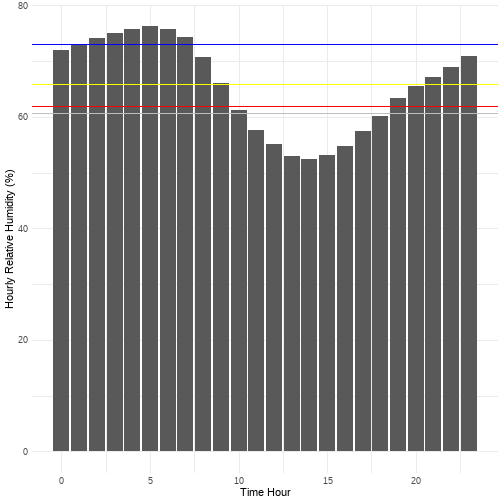
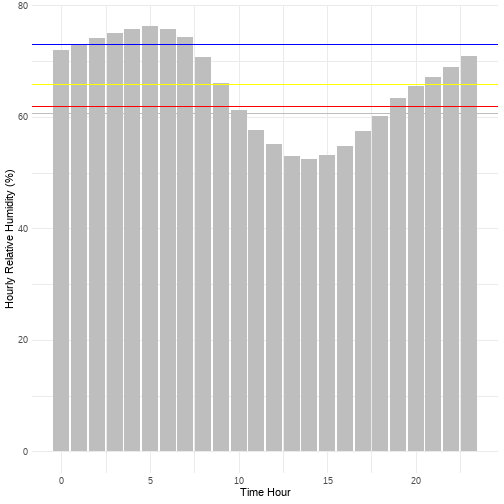
add wordings

diff --git a/season_in_a_day.html b/season_in_a_day.html
@@ -21,18 +21,18 @@
 
 ## CWD Group Presentation
 
-2020-10-30  
-
-
+.pul-left[
 &lt;img src = "vega.png" , width = 20%&gt;  
-Dea Avega Editya
+Dea Avega Editya]
 
-
+.pul-right[
 &lt;img src = "sobyan.jpg" , width = 20%&gt;  
-M. Sobyan Qasim
+M. Sobyan Qasim]
 
+
+
+Melbourne, 2020-10-30  
 ]
-
 ---
 .center[
 ### Research question:
@@ -66,10 +66,11 @@ What makes a season anyway?
 #### Steps Revealed
 
 To find the answer for our research question, we need to compare temperature in a regular day to 4 different typical temperature of each season.  
-It should be also done for humidity!  
+It should be also done for humidity!   
 
-Therefore, we need to:  
---  
+--
+  
+Therefore, we will:
 1. Explore data of temperature &amp; humidity in the dataset
 1. Count average number per hour for these variables
 1. Compare the number to threshold
@@ -104,23 +105,23 @@ There are 7 variables inside.
 
 1. We will find typical temperature for each seasons in Melbourne!  
 
-    * &lt;svg style="height:0.8em;top:.04em;position:relative;fill:red;" viewBox="0 0 512 512"&gt;&lt;path d="M256 160c-52.9 0-96 43.1-96 96s43.1 96 96 96 96-43.1 96-96-43.1-96-96-96zm246.4 80.5l-94.7-47.3 33.5-100.4c4.5-13.6-8.4-26.5-21.9-21.9l-100.4 33.5-47.4-94.8c-6.4-12.8-24.6-12.8-31 0l-47.3 94.7L92.7 70.8c-13.6-4.5-26.5 8.4-21.9 21.9l33.5 100.4-94.7 47.4c-12.8 6.4-12.8 24.6 0 31l94.7 47.3-33.5 100.5c-4.5 13.6 8.4 26.5 21.9 21.9l100.4-33.5 47.3 94.7c6.4 12.8 24.6 12.8 31 0l47.3-94.7 100.4 33.5c13.6 4.5 26.5-8.4 21.9-21.9l-33.5-100.4 94.7-47.3c13-6.5 13-24.7.2-31.1zm-155.9 106c-49.9 49.9-131.1 49.9-181 0-49.9-49.9-49.9-131.1 0-181 49.9-49.9 131.1-49.9 181 0 49.9 49.9 49.9 131.1 0 181z"/&gt;&lt;/svg&gt; **Summer** (December, January, February) = 19.8105125  
+    * &lt;svg style="height:0.8em;top:.04em;position:relative;fill:red;" viewBox="0 0 512 512"&gt;&lt;path d="M256 160c-52.9 0-96 43.1-96 96s43.1 96 96 96 96-43.1 96-96-43.1-96-96-96zm246.4 80.5l-94.7-47.3 33.5-100.4c4.5-13.6-8.4-26.5-21.9-21.9l-100.4 33.5-47.4-94.8c-6.4-12.8-24.6-12.8-31 0l-47.3 94.7L92.7 70.8c-13.6-4.5-26.5 8.4-21.9 21.9l33.5 100.4-94.7 47.4c-12.8 6.4-12.8 24.6 0 31l94.7 47.3-33.5 100.5c-4.5 13.6 8.4 26.5 21.9 21.9l100.4-33.5 47.3 94.7c6.4 12.8 24.6 12.8 31 0l47.3-94.7 100.4 33.5c13.6 4.5 26.5-8.4 21.9-21.9l-33.5-100.4 94.7-47.3c13-6.5 13-24.7.2-31.1zm-155.9 106c-49.9 49.9-131.1 49.9-181 0-49.9-49.9-49.9-131.1 0-181 49.9-49.9 131.1-49.9 181 0 49.9 49.9 49.9 131.1 0 181z"/&gt;&lt;/svg&gt; **Summer** (December, January, February) = 19.81 C 
 
-    * &lt;svg style="height:0.8em;top:.04em;position:relative;fill:blue;" viewBox="0 0 640 512"&gt;&lt;path d="M575.2 325.7c.2-1.9.8-3.7.8-5.6 0-35.3-28.7-64-64-64-12.6 0-24.2 3.8-34.1 10-17.6-38.8-56.5-66-101.9-66-61.8 0-112 50.1-112 112 0 3 .7 5.8.9 8.7-49.6 3.7-88.9 44.7-88.9 95.3 0 53 43 96 96 96h272c53 0 96-43 96-96 0-42.1-27.2-77.4-64.8-90.4zm-430.4-22.6c-43.7-43.7-43.7-114.7 0-158.3 43.7-43.7 114.7-43.7 158.4 0 9.7 9.7 16.9 20.9 22.3 32.7 9.8-3.7 20.1-6 30.7-7.5L386 81.1c4-11.9-7.3-23.1-19.2-19.2L279 91.2 237.5 8.4C232-2.8 216-2.8 210.4 8.4L169 91.2 81.1 61.9C69.3 58 58 69.3 61.9 81.1l29.3 87.8-82.8 41.5c-11.2 5.6-11.2 21.5 0 27.1l82.8 41.4-29.3 87.8c-4 11.9 7.3 23.1 19.2 19.2l76.1-25.3c6.1-12.4 14-23.7 23.6-33.5-13.1-5.4-25.4-13.4-36-24zm-4.8-79.2c0 40.8 29.3 74.8 67.9 82.3 8-4.7 16.3-8.8 25.2-11.7 5.4-44.3 31-82.5 67.4-105C287.3 160.4 258 140 224 140c-46.3 0-84 37.6-84 83.9z"/&gt;&lt;/svg&gt; **Autumn** (March, April, May) =  15.6929064  
+    * &lt;svg style="height:0.8em;top:.04em;position:relative;fill:blue;" viewBox="0 0 640 512"&gt;&lt;path d="M575.2 325.7c.2-1.9.8-3.7.8-5.6 0-35.3-28.7-64-64-64-12.6 0-24.2 3.8-34.1 10-17.6-38.8-56.5-66-101.9-66-61.8 0-112 50.1-112 112 0 3 .7 5.8.9 8.7-49.6 3.7-88.9 44.7-88.9 95.3 0 53 43 96 96 96h272c53 0 96-43 96-96 0-42.1-27.2-77.4-64.8-90.4zm-430.4-22.6c-43.7-43.7-43.7-114.7 0-158.3 43.7-43.7 114.7-43.7 158.4 0 9.7 9.7 16.9 20.9 22.3 32.7 9.8-3.7 20.1-6 30.7-7.5L386 81.1c4-11.9-7.3-23.1-19.2-19.2L279 91.2 237.5 8.4C232-2.8 216-2.8 210.4 8.4L169 91.2 81.1 61.9C69.3 58 58 69.3 61.9 81.1l29.3 87.8-82.8 41.5c-11.2 5.6-11.2 21.5 0 27.1l82.8 41.4-29.3 87.8c-4 11.9 7.3 23.1 19.2 19.2l76.1-25.3c6.1-12.4 14-23.7 23.6-33.5-13.1-5.4-25.4-13.4-36-24zm-4.8-79.2c0 40.8 29.3 74.8 67.9 82.3 8-4.7 16.3-8.8 25.2-11.7 5.4-44.3 31-82.5 67.4-105C287.3 160.4 258 140 224 140c-46.3 0-84 37.6-84 83.9z"/&gt;&lt;/svg&gt; **Autumn** (March, April, May) =  15.69 C 
 
-    * &lt;svg style="height:0.8em;top:.04em;position:relative;fill:blue;" viewBox="0 0 448 512"&gt;&lt;path d="M440.3 345.2l-33.8-19.5 26-7c8.2-2.2 13.1-10.7 10.9-18.9l-4-14.9c-2.2-8.2-10.7-13.1-18.9-10.9l-70.8 19-63.9-37 63.8-36.9 70.8 19c8.2 2.2 16.7-2.7 18.9-10.9l4-14.9c2.2-8.2-2.7-16.7-10.9-18.9l-26-7 33.8-19.5c7.4-4.3 9.9-13.7 5.7-21.1L430.4 119c-4.3-7.4-13.7-9.9-21.1-5.7l-33.8 19.5 7-26c2.2-8.2-2.7-16.7-10.9-18.9l-14.9-4c-8.2-2.2-16.7 2.7-18.9 10.9l-19 70.8-62.8 36.2v-77.5l53.7-53.7c6.2-6.2 6.2-16.4 0-22.6l-11.3-11.3c-6.2-6.2-16.4-6.2-22.6 0L256 56.4V16c0-8.8-7.2-16-16-16h-32c-8.8 0-16 7.2-16 16v40.4l-19.7-19.7c-6.2-6.2-16.4-6.2-22.6 0L138.3 48c-6.3 6.2-6.3 16.4 0 22.6l53.7 53.7v77.5l-62.8-36.2-19-70.8c-2.2-8.2-10.7-13.1-18.9-10.9l-14.9 4c-8.2 2.2-13.1 10.7-10.9 18.9l7 26-33.8-19.5c-7.4-4.3-16.8-1.7-21.1 5.7L2.1 145.7c-4.3 7.4-1.7 16.8 5.7 21.1l33.8 19.5-26 7c-8.3 2.2-13.2 10.7-11 19l4 14.9c2.2 8.2 10.7 13.1 18.9 10.9l70.8-19 63.8 36.9-63.8 36.9-70.8-19c-8.2-2.2-16.7 2.7-18.9 10.9l-4 14.9c-2.2 8.2 2.7 16.7 10.9 18.9l26 7-33.8 19.6c-7.4 4.3-9.9 13.7-5.7 21.1l15.5 26.8c4.3 7.4 13.7 9.9 21.1 5.7l33.8-19.5-7 26c-2.2 8.2 2.7 16.7 10.9 18.9l14.9 4c8.2 2.2 16.7-2.7 18.9-10.9l19-70.8 62.8-36.2v77.5l-53.7 53.7c-6.3 6.2-6.3 16.4 0 22.6l11.3 11.3c6.2 6.2 16.4 6.2 22.6 0l19.7-19.7V496c0 8.8 7.2 16 16 16h32c8.8 0 16-7.2 16-16v-40.4l19.7 19.7c6.2 6.2 16.4 6.2 22.6 0l11.3-11.3c6.2-6.2 6.2-16.4 0-22.6L256 387.7v-77.5l62.8 36.2 19 70.8c2.2 8.2 10.7 13.1 18.9 10.9l14.9-4c8.2-2.2 13.1-10.7 10.9-18.9l-7-26 33.8 19.5c7.4 4.3 16.8 1.7 21.1-5.7l15.5-26.8c4.3-7.3 1.8-16.8-5.6-21z"/&gt;&lt;/svg&gt; **Winter** (June, July, August) = 10.7217756  
+    * &lt;svg style="height:0.8em;top:.04em;position:relative;fill:blue;" viewBox="0 0 448 512"&gt;&lt;path d="M440.3 345.2l-33.8-19.5 26-7c8.2-2.2 13.1-10.7 10.9-18.9l-4-14.9c-2.2-8.2-10.7-13.1-18.9-10.9l-70.8 19-63.9-37 63.8-36.9 70.8 19c8.2 2.2 16.7-2.7 18.9-10.9l4-14.9c2.2-8.2-2.7-16.7-10.9-18.9l-26-7 33.8-19.5c7.4-4.3 9.9-13.7 5.7-21.1L430.4 119c-4.3-7.4-13.7-9.9-21.1-5.7l-33.8 19.5 7-26c2.2-8.2-2.7-16.7-10.9-18.9l-14.9-4c-8.2-2.2-16.7 2.7-18.9 10.9l-19 70.8-62.8 36.2v-77.5l53.7-53.7c6.2-6.2 6.2-16.4 0-22.6l-11.3-11.3c-6.2-6.2-16.4-6.2-22.6 0L256 56.4V16c0-8.8-7.2-16-16-16h-32c-8.8 0-16 7.2-16 16v40.4l-19.7-19.7c-6.2-6.2-16.4-6.2-22.6 0L138.3 48c-6.3 6.2-6.3 16.4 0 22.6l53.7 53.7v77.5l-62.8-36.2-19-70.8c-2.2-8.2-10.7-13.1-18.9-10.9l-14.9 4c-8.2 2.2-13.1 10.7-10.9 18.9l7 26-33.8-19.5c-7.4-4.3-16.8-1.7-21.1 5.7L2.1 145.7c-4.3 7.4-1.7 16.8 5.7 21.1l33.8 19.5-26 7c-8.3 2.2-13.2 10.7-11 19l4 14.9c2.2 8.2 10.7 13.1 18.9 10.9l70.8-19 63.8 36.9-63.8 36.9-70.8-19c-8.2-2.2-16.7 2.7-18.9 10.9l-4 14.9c-2.2 8.2 2.7 16.7 10.9 18.9l26 7-33.8 19.6c-7.4 4.3-9.9 13.7-5.7 21.1l15.5 26.8c4.3 7.4 13.7 9.9 21.1 5.7l33.8-19.5-7 26c-2.2 8.2 2.7 16.7 10.9 18.9l14.9 4c8.2 2.2 16.7-2.7 18.9-10.9l19-70.8 62.8-36.2v77.5l-53.7 53.7c-6.3 6.2-6.3 16.4 0 22.6l11.3 11.3c6.2 6.2 16.4 6.2 22.6 0l19.7-19.7V496c0 8.8 7.2 16 16 16h32c8.8 0 16-7.2 16-16v-40.4l19.7 19.7c6.2 6.2 16.4 6.2 22.6 0l11.3-11.3c6.2-6.2 6.2-16.4 0-22.6L256 387.7v-77.5l62.8 36.2 19 70.8c2.2 8.2 10.7 13.1 18.9 10.9l14.9-4c8.2-2.2 13.1-10.7 10.9-18.9l-7-26 33.8 19.5c7.4 4.3 16.8 1.7 21.1-5.7l15.5-26.8c4.3-7.3 1.8-16.8-5.6-21z"/&gt;&lt;/svg&gt; **Winter** (June, July, August) = 10.72 C 
    
-    * &lt;svg style="height:0.8em;top:.04em;position:relative;fill:green;" viewBox="0 0 512 512"&gt;&lt;path d="M64 96H0c0 123.7 100.3 224 224 224v144c0 8.8 7.2 16 16 16h32c8.8 0 16-7.2 16-16V320C288 196.3 187.7 96 64 96zm384-64c-84.2 0-157.4 46.5-195.7 115.2 27.7 30.2 48.2 66.9 59 107.6C424 243.1 512 147.9 512 32h-64z"/&gt;&lt;/svg&gt; Spring (September, October, November) =15.3336629
+    * &lt;svg style="height:0.8em;top:.04em;position:relative;fill:green;" viewBox="0 0 512 512"&gt;&lt;path d="M64 96H0c0 123.7 100.3 224 224 224v144c0 8.8 7.2 16 16 16h32c8.8 0 16-7.2 16-16V320C288 196.3 187.7 96 64 96zm384-64c-84.2 0-157.4 46.5-195.7 115.2 27.7 30.2 48.2 66.9 59 107.6C424 243.1 512 147.9 512 32h-64z"/&gt;&lt;/svg&gt; **Spring** (September, October, November) =15.33 C
 
 1. Also typical humidity for each seasons in Melbourne  
 
-    * &lt;svg style="height:0.8em;top:.04em;position:relative;fill:red;" viewBox="0 0 512 512"&gt;&lt;path d="M256 160c-52.9 0-96 43.1-96 96s43.1 96 96 96 96-43.1 96-96-43.1-96-96-96zm246.4 80.5l-94.7-47.3 33.5-100.4c4.5-13.6-8.4-26.5-21.9-21.9l-100.4 33.5-47.4-94.8c-6.4-12.8-24.6-12.8-31 0l-47.3 94.7L92.7 70.8c-13.6-4.5-26.5 8.4-21.9 21.9l33.5 100.4-94.7 47.4c-12.8 6.4-12.8 24.6 0 31l94.7 47.3-33.5 100.5c-4.5 13.6 8.4 26.5 21.9 21.9l100.4-33.5 47.3 94.7c6.4 12.8 24.6 12.8 31 0l47.3-94.7 100.4 33.5c13.6 4.5 26.5-8.4 21.9-21.9l-33.5-100.4 94.7-47.3c13-6.5 13-24.7.2-31.1zm-155.9 106c-49.9 49.9-131.1 49.9-181 0-49.9-49.9-49.9-131.1 0-181 49.9-49.9 131.1-49.9 181 0 49.9 49.9 49.9 131.1 0 181z"/&gt;&lt;/svg&gt; **Summer** (December, January, February) = 61.9892018  
+    * &lt;svg style="height:0.8em;top:.04em;position:relative;fill:red;" viewBox="0 0 512 512"&gt;&lt;path d="M256 160c-52.9 0-96 43.1-96 96s43.1 96 96 96 96-43.1 96-96-43.1-96-96-96zm246.4 80.5l-94.7-47.3 33.5-100.4c4.5-13.6-8.4-26.5-21.9-21.9l-100.4 33.5-47.4-94.8c-6.4-12.8-24.6-12.8-31 0l-47.3 94.7L92.7 70.8c-13.6-4.5-26.5 8.4-21.9 21.9l33.5 100.4-94.7 47.4c-12.8 6.4-12.8 24.6 0 31l94.7 47.3-33.5 100.5c-4.5 13.6 8.4 26.5 21.9 21.9l100.4-33.5 47.3 94.7c6.4 12.8 24.6 12.8 31 0l47.3-94.7 100.4 33.5c13.6 4.5 26.5-8.4 21.9-21.9l-33.5-100.4 94.7-47.3c13-6.5 13-24.7.2-31.1zm-155.9 106c-49.9 49.9-131.1 49.9-181 0-49.9-49.9-49.9-131.1 0-181 49.9-49.9 131.1-49.9 181 0 49.9 49.9 49.9 131.1 0 181z"/&gt;&lt;/svg&gt; **Summer** (December, January, February) = 61.99 %  
 
-    * &lt;svg style="height:0.8em;top:.04em;position:relative;fill:blue;" viewBox="0 0 640 512"&gt;&lt;path d="M575.2 325.7c.2-1.9.8-3.7.8-5.6 0-35.3-28.7-64-64-64-12.6 0-24.2 3.8-34.1 10-17.6-38.8-56.5-66-101.9-66-61.8 0-112 50.1-112 112 0 3 .7 5.8.9 8.7-49.6 3.7-88.9 44.7-88.9 95.3 0 53 43 96 96 96h272c53 0 96-43 96-96 0-42.1-27.2-77.4-64.8-90.4zm-430.4-22.6c-43.7-43.7-43.7-114.7 0-158.3 43.7-43.7 114.7-43.7 158.4 0 9.7 9.7 16.9 20.9 22.3 32.7 9.8-3.7 20.1-6 30.7-7.5L386 81.1c4-11.9-7.3-23.1-19.2-19.2L279 91.2 237.5 8.4C232-2.8 216-2.8 210.4 8.4L169 91.2 81.1 61.9C69.3 58 58 69.3 61.9 81.1l29.3 87.8-82.8 41.5c-11.2 5.6-11.2 21.5 0 27.1l82.8 41.4-29.3 87.8c-4 11.9 7.3 23.1 19.2 19.2l76.1-25.3c6.1-12.4 14-23.7 23.6-33.5-13.1-5.4-25.4-13.4-36-24zm-4.8-79.2c0 40.8 29.3 74.8 67.9 82.3 8-4.7 16.3-8.8 25.2-11.7 5.4-44.3 31-82.5 67.4-105C287.3 160.4 258 140 224 140c-46.3 0-84 37.6-84 83.9z"/&gt;&lt;/svg&gt; **Autumn** (March, April and May) =  65.9085885  
+    * &lt;svg style="height:0.8em;top:.04em;position:relative;fill:blue;" viewBox="0 0 640 512"&gt;&lt;path d="M575.2 325.7c.2-1.9.8-3.7.8-5.6 0-35.3-28.7-64-64-64-12.6 0-24.2 3.8-34.1 10-17.6-38.8-56.5-66-101.9-66-61.8 0-112 50.1-112 112 0 3 .7 5.8.9 8.7-49.6 3.7-88.9 44.7-88.9 95.3 0 53 43 96 96 96h272c53 0 96-43 96-96 0-42.1-27.2-77.4-64.8-90.4zm-430.4-22.6c-43.7-43.7-43.7-114.7 0-158.3 43.7-43.7 114.7-43.7 158.4 0 9.7 9.7 16.9 20.9 22.3 32.7 9.8-3.7 20.1-6 30.7-7.5L386 81.1c4-11.9-7.3-23.1-19.2-19.2L279 91.2 237.5 8.4C232-2.8 216-2.8 210.4 8.4L169 91.2 81.1 61.9C69.3 58 58 69.3 61.9 81.1l29.3 87.8-82.8 41.5c-11.2 5.6-11.2 21.5 0 27.1l82.8 41.4-29.3 87.8c-4 11.9 7.3 23.1 19.2 19.2l76.1-25.3c6.1-12.4 14-23.7 23.6-33.5-13.1-5.4-25.4-13.4-36-24zm-4.8-79.2c0 40.8 29.3 74.8 67.9 82.3 8-4.7 16.3-8.8 25.2-11.7 5.4-44.3 31-82.5 67.4-105C287.3 160.4 258 140 224 140c-46.3 0-84 37.6-84 83.9z"/&gt;&lt;/svg&gt; **Autumn** (March, April and May) = 65.91 % 
    
-    * &lt;svg style="height:0.8em;top:.04em;position:relative;fill:blue;" viewBox="0 0 448 512"&gt;&lt;path d="M440.3 345.2l-33.8-19.5 26-7c8.2-2.2 13.1-10.7 10.9-18.9l-4-14.9c-2.2-8.2-10.7-13.1-18.9-10.9l-70.8 19-63.9-37 63.8-36.9 70.8 19c8.2 2.2 16.7-2.7 18.9-10.9l4-14.9c2.2-8.2-2.7-16.7-10.9-18.9l-26-7 33.8-19.5c7.4-4.3 9.9-13.7 5.7-21.1L430.4 119c-4.3-7.4-13.7-9.9-21.1-5.7l-33.8 19.5 7-26c2.2-8.2-2.7-16.7-10.9-18.9l-14.9-4c-8.2-2.2-16.7 2.7-18.9 10.9l-19 70.8-62.8 36.2v-77.5l53.7-53.7c6.2-6.2 6.2-16.4 0-22.6l-11.3-11.3c-6.2-6.2-16.4-6.2-22.6 0L256 56.4V16c0-8.8-7.2-16-16-16h-32c-8.8 0-16 7.2-16 16v40.4l-19.7-19.7c-6.2-6.2-16.4-6.2-22.6 0L138.3 48c-6.3 6.2-6.3 16.4 0 22.6l53.7 53.7v77.5l-62.8-36.2-19-70.8c-2.2-8.2-10.7-13.1-18.9-10.9l-14.9 4c-8.2 2.2-13.1 10.7-10.9 18.9l7 26-33.8-19.5c-7.4-4.3-16.8-1.7-21.1 5.7L2.1 145.7c-4.3 7.4-1.7 16.8 5.7 21.1l33.8 19.5-26 7c-8.3 2.2-13.2 10.7-11 19l4 14.9c2.2 8.2 10.7 13.1 18.9 10.9l70.8-19 63.8 36.9-63.8 36.9-70.8-19c-8.2-2.2-16.7 2.7-18.9 10.9l-4 14.9c-2.2 8.2 2.7 16.7 10.9 18.9l26 7-33.8 19.6c-7.4 4.3-9.9 13.7-5.7 21.1l15.5 26.8c4.3 7.4 13.7 9.9 21.1 5.7l33.8-19.5-7 26c-2.2 8.2 2.7 16.7 10.9 18.9l14.9 4c8.2 2.2 16.7-2.7 18.9-10.9l19-70.8 62.8-36.2v77.5l-53.7 53.7c-6.3 6.2-6.3 16.4 0 22.6l11.3 11.3c6.2 6.2 16.4 6.2 22.6 0l19.7-19.7V496c0 8.8 7.2 16 16 16h32c8.8 0 16-7.2 16-16v-40.4l19.7 19.7c6.2 6.2 16.4 6.2 22.6 0l11.3-11.3c6.2-6.2 6.2-16.4 0-22.6L256 387.7v-77.5l62.8 36.2 19 70.8c2.2 8.2 10.7 13.1 18.9 10.9l14.9-4c8.2-2.2 13.1-10.7 10.9-18.9l-7-26 33.8 19.5c7.4 4.3 16.8 1.7 21.1-5.7l15.5-26.8c4.3-7.3 1.8-16.8-5.6-21z"/&gt;&lt;/svg&gt; **Winter** (June, July and August) = 73.0085487  
+    * &lt;svg style="height:0.8em;top:.04em;position:relative;fill:blue;" viewBox="0 0 448 512"&gt;&lt;path d="M440.3 345.2l-33.8-19.5 26-7c8.2-2.2 13.1-10.7 10.9-18.9l-4-14.9c-2.2-8.2-10.7-13.1-18.9-10.9l-70.8 19-63.9-37 63.8-36.9 70.8 19c8.2 2.2 16.7-2.7 18.9-10.9l4-14.9c2.2-8.2-2.7-16.7-10.9-18.9l-26-7 33.8-19.5c7.4-4.3 9.9-13.7 5.7-21.1L430.4 119c-4.3-7.4-13.7-9.9-21.1-5.7l-33.8 19.5 7-26c2.2-8.2-2.7-16.7-10.9-18.9l-14.9-4c-8.2-2.2-16.7 2.7-18.9 10.9l-19 70.8-62.8 36.2v-77.5l53.7-53.7c6.2-6.2 6.2-16.4 0-22.6l-11.3-11.3c-6.2-6.2-16.4-6.2-22.6 0L256 56.4V16c0-8.8-7.2-16-16-16h-32c-8.8 0-16 7.2-16 16v40.4l-19.7-19.7c-6.2-6.2-16.4-6.2-22.6 0L138.3 48c-6.3 6.2-6.3 16.4 0 22.6l53.7 53.7v77.5l-62.8-36.2-19-70.8c-2.2-8.2-10.7-13.1-18.9-10.9l-14.9 4c-8.2 2.2-13.1 10.7-10.9 18.9l7 26-33.8-19.5c-7.4-4.3-16.8-1.7-21.1 5.7L2.1 145.7c-4.3 7.4-1.7 16.8 5.7 21.1l33.8 19.5-26 7c-8.3 2.2-13.2 10.7-11 19l4 14.9c2.2 8.2 10.7 13.1 18.9 10.9l70.8-19 63.8 36.9-63.8 36.9-70.8-19c-8.2-2.2-16.7 2.7-18.9 10.9l-4 14.9c-2.2 8.2 2.7 16.7 10.9 18.9l26 7-33.8 19.6c-7.4 4.3-9.9 13.7-5.7 21.1l15.5 26.8c4.3 7.4 13.7 9.9 21.1 5.7l33.8-19.5-7 26c-2.2 8.2 2.7 16.7 10.9 18.9l14.9 4c8.2 2.2 16.7-2.7 18.9-10.9l19-70.8 62.8-36.2v77.5l-53.7 53.7c-6.3 6.2-6.3 16.4 0 22.6l11.3 11.3c6.2 6.2 16.4 6.2 22.6 0l19.7-19.7V496c0 8.8 7.2 16 16 16h32c8.8 0 16-7.2 16-16v-40.4l19.7 19.7c6.2 6.2 16.4 6.2 22.6 0l11.3-11.3c6.2-6.2 6.2-16.4 0-22.6L256 387.7v-77.5l62.8 36.2 19 70.8c2.2 8.2 10.7 13.1 18.9 10.9l14.9-4c8.2-2.2 13.1-10.7 10.9-18.9l-7-26 33.8 19.5c7.4 4.3 16.8 1.7 21.1-5.7l15.5-26.8c4.3-7.3 1.8-16.8-5.6-21z"/&gt;&lt;/svg&gt; **Winter** (June, July and August) = 73.01 %  
    
-    * &lt;svg style="height:0.8em;top:.04em;position:relative;fill:green;" viewBox="0 0 512 512"&gt;&lt;path d="M64 96H0c0 123.7 100.3 224 224 224v144c0 8.8 7.2 16 16 16h32c8.8 0 16-7.2 16-16V320C288 196.3 187.7 96 64 96zm384-64c-84.2 0-157.4 46.5-195.7 115.2 27.7 30.2 48.2 66.9 59 107.6C424 243.1 512 147.9 512 32h-64z"/&gt;&lt;/svg&gt; **Spring** (September, October and November) =60.7050444
+    * &lt;svg style="height:0.8em;top:.04em;position:relative;fill:green;" viewBox="0 0 512 512"&gt;&lt;path d="M64 96H0c0 123.7 100.3 224 224 224v144c0 8.8 7.2 16 16 16h32c8.8 0 16-7.2 16-16V320C288 196.3 187.7 96 64 96zm384-64c-84.2 0-157.4 46.5-195.7 115.2 27.7 30.2 48.2 66.9 59 107.6C424 243.1 512 147.9 512 32h-64z"/&gt;&lt;/svg&gt; **Spring** (September, October and November) =60.71 %
 
 
 ---
@@ -129,11 +130,7 @@ There are 7 variables inside.
 
 #### Is that true that we can feel four seasons in a day in Melbourne?
 
-##### Average Hourly Temperature in Melbourne
-.pull-left[
-![](season_in_a_day_files/figure-html/temp-1.png)&lt;!-- --&gt;
-]
-
+&lt;img src = "hot.png" width = 5%&gt; Average Hourly Temperature in Melbourne
 .pull-left[
 
 ```r
@@ -145,7 +142,9 @@ melb_temp %&gt;% filter(units == "C") %&gt;% group_by(hour) %&gt;% summarise(ave
     geom_hline(yintercept = pull(ave_spring), color = "green") + 
     theme_minimal() + xlab("Time Hour") + ylab("Hourly Average Temperature (C)")
 ```
+]
 
+.pull-left[
 ![](season_in_a_day_files/figure-html/plot-out-1.png)&lt;!-- --&gt;
 ]
 
@@ -154,24 +153,22 @@ melb_temp %&gt;% filter(units == "C") %&gt;% group_by(hour) %&gt;% summarise(ave
 
 #### Is that true that we can feel four seasons in a day in Melbourne?
 
-##### Average Hourly Humidity in Melbourne
+&lt;img src = "drop.png" width = 5%&gt; Average Hourly Humidity in Melbourne
 
 .pull-left[
-![](season_in_a_day_files/figure-html/rain-1.png)&lt;!-- --&gt;
-]
-
-.pull-right[
 
 ```r
 melb_temp %&gt;% filter(type == "TPH.RH-EPA-1h") %&gt;% group_by(hour) %&gt;% 
     summarise(ave_humid = mean(value, na.rm = TRUE)) %&gt;% ggplot(aes(x = hour, 
-    y = ave_humid)) + geom_col() + geom_hline(yintercept = pull(ave_rainautumn), 
+    y = ave_humid)) + geom_col(fill = "grey") + geom_hline(yintercept = pull(ave_rainautumn), 
     color = "yellow") + geom_hline(yintercept = pull(ave_rainsummer), 
     color = "red") + geom_hline(yintercept = pull(ave_rainwinter), 
     color = "blue") + geom_hline(yintercept = pull(ave_rainspring), 
     color = "grey") + theme_minimal() + xlab("Time Hour") + ylab("Hourly Relative Humidity (%)")
 ```
+]
 
+.pull-right[
 ![](season_in_a_day_files/figure-html/plot-out2-1.png)&lt;!-- --&gt;
 ]
 ---
